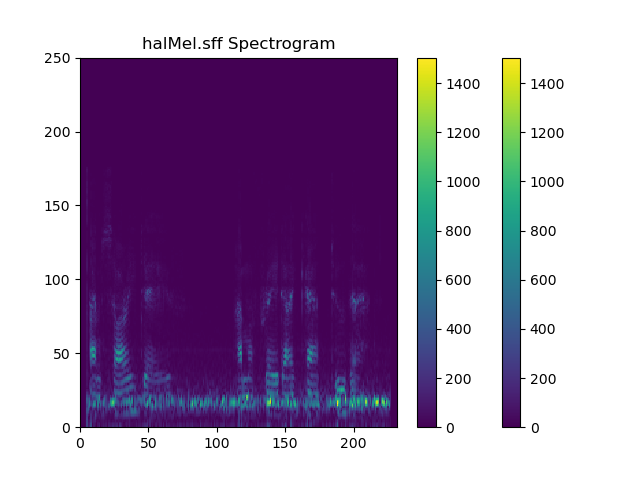
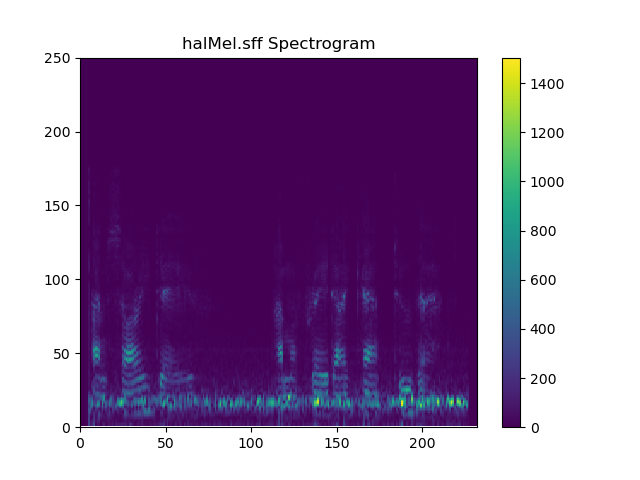
fix duplicate colorbar

diff --git a/dev/sff/sffDemo.py b/dev/sff/sffDemo.py
@@ -9,13 +9,15 @@ def plotSFF(filePath, show = False):
 
     # rotate values for display as a pseudocolor mesh
     rotatedValues = np.rot90(sf.values, 1)[::-1]
-    plt.pcolormesh(rotatedValues)
 
+    plt.figure()
+    plt.pcolormesh(rotatedValues)
     plt.colorbar()
     plt.title(f"{filePath} Spectrogram")
     plt.savefig(filePath.replace(".sff", ".png"))
     if show:
         plt.show()
+    plt.close()
 
 if __name__ == "__main__":
     plotSFF("hal.sff")
